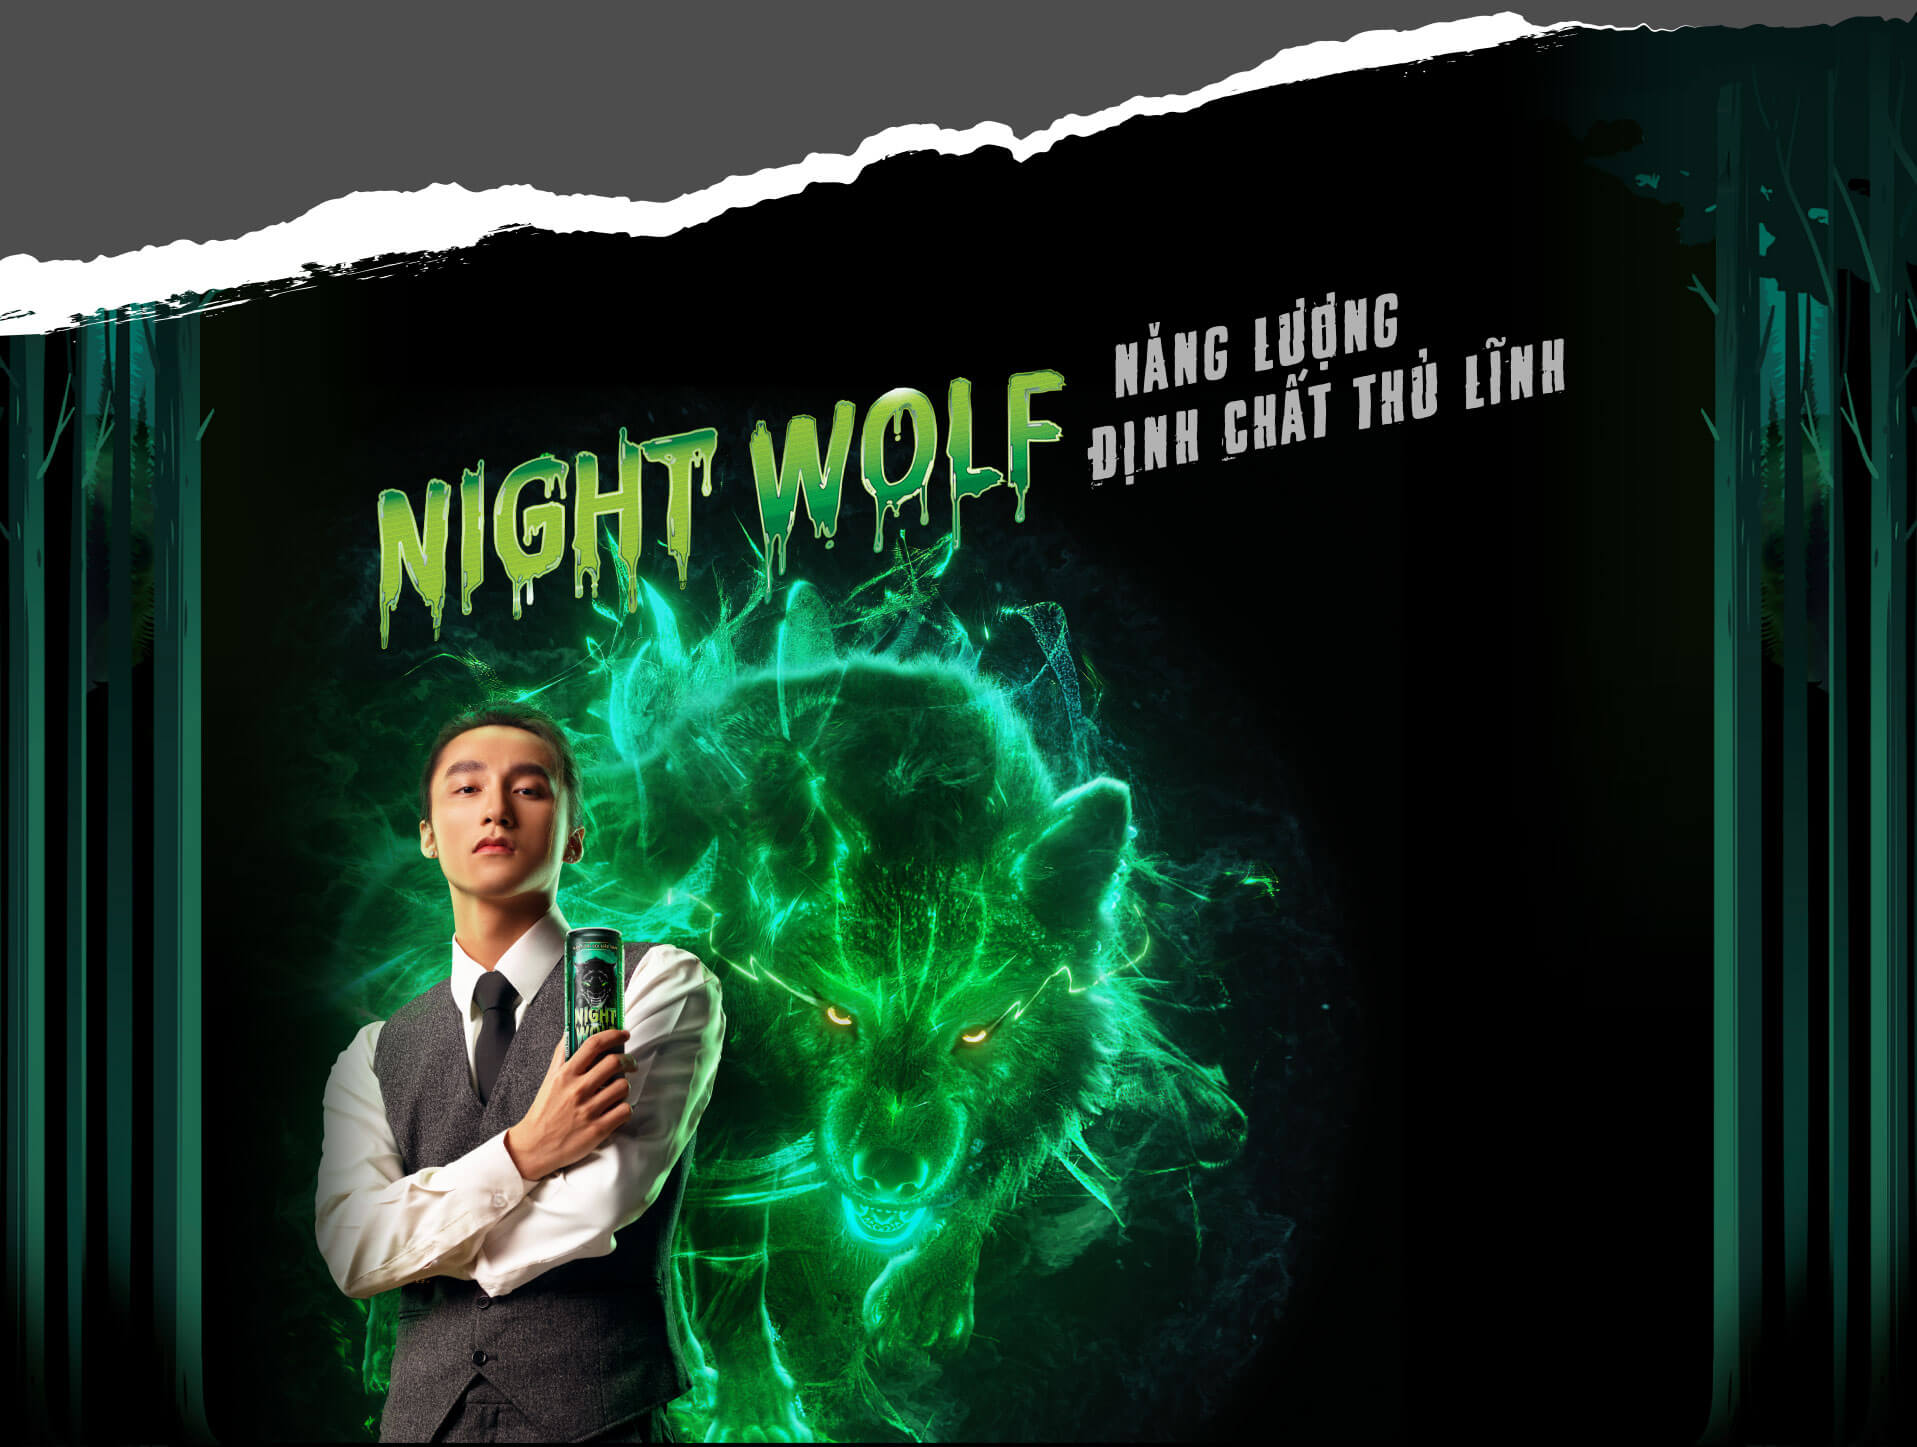
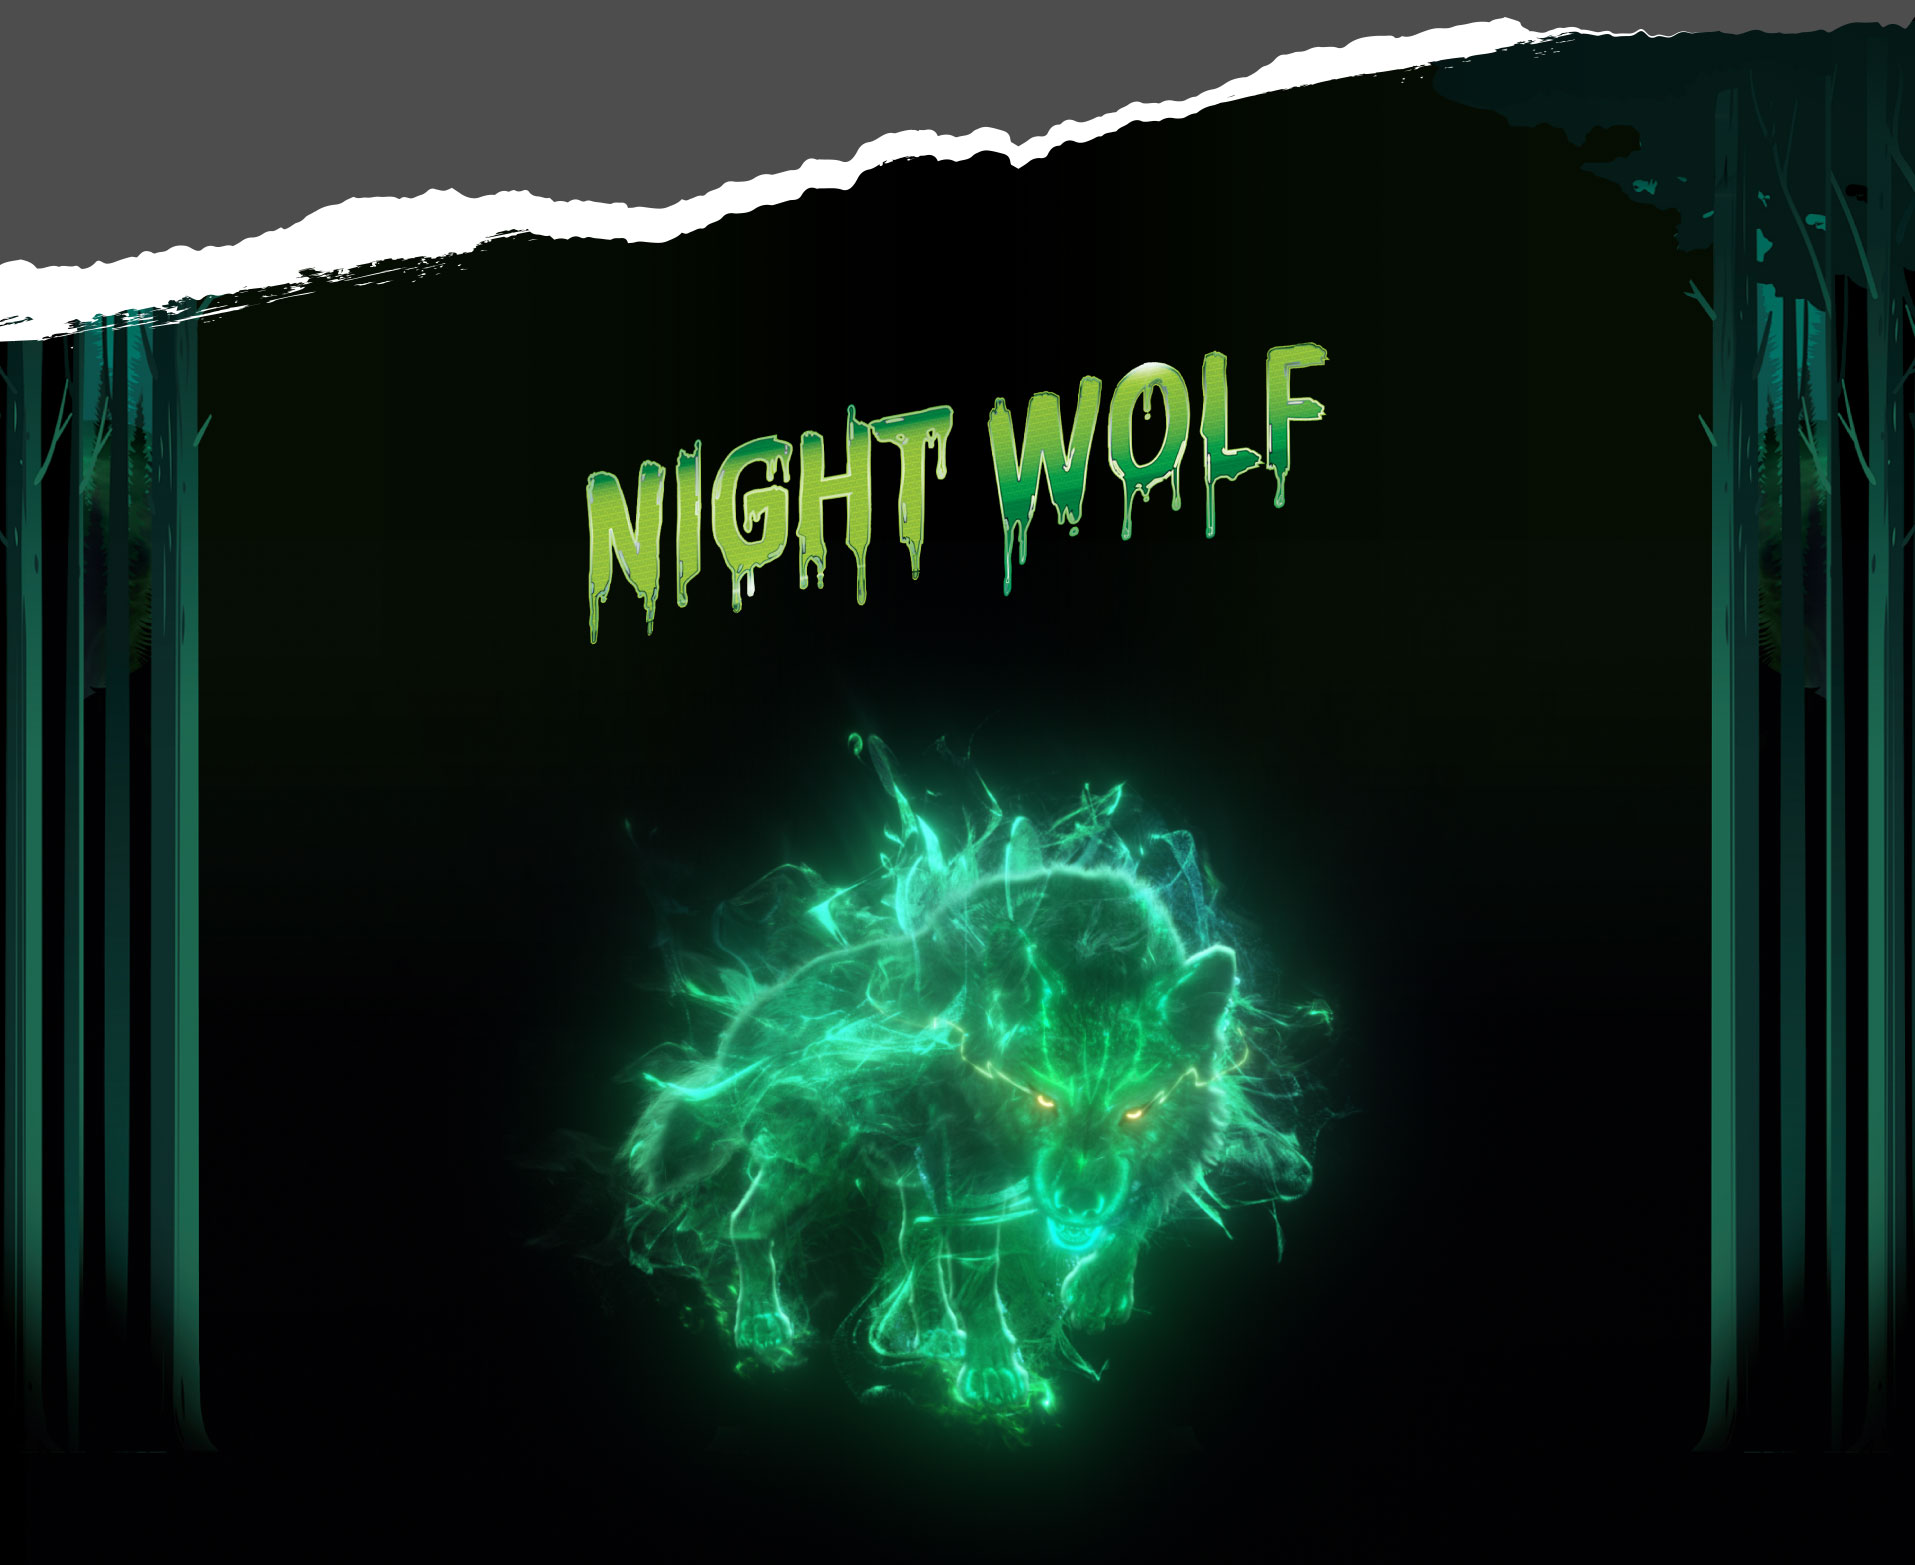
update img poster

diff --git a/index.html b/index.html
@@ -182,13 +182,13 @@
            <img src="./images/bg-poster.jpg" alt="" class="bg-poster md-desktop">
            <img src="./images/bg-poster-mb.jpg" alt="" class="bg-poster md-mobile">
            <img src="./images/text-1.png" alt="" class="poster-text-1 md-desktop wow fadeInRight">
-           <img src="./images/text-2.png" alt="" class="poster-text-2 md-desktop wow fadeInRight">
+           <img src="./images/text-2.png" alt="" class="poster-text-2 md-desktop wow fadeInLeft">
            <img src="./images/text-1-mb.png" alt="" class="poster-text-1 md-mobile wow fadeInRight">
            <img src="./images/text-2-mb.png" alt="" class="poster-text-2 md-mobile wow fadeInRight">
-           <img src="./images/poster-text-3.png" alt="" class="poster-text-3 md-mobile">
+           <img src="./images/poster-text-3.png" alt="" class="poster-text-3">
            <img src="./images/bg-line.png" alt="" class="bg-line">
-           <img src="./images/bg-line.png" alt="" class="bg-line-4">
-           <img src="./images/son-tung.png" alt="" class="img-sontung">
+          <!--  <img src="./images/bg-line.png" alt="" class="bg-line-4">
+           <img src="./images/son-tung.png" alt="" class="img-sontung"> -->
        </div>
        <div class="md-video">
            <div class="container">

diff --git a/css/style.css b/css/style.css
@@ -525,23 +525,23 @@ input[type=submit] {
   width: 100%;
 }
 .page-main .md-poster .poster-text-1{
-  position: absolute;
-  right: 12%;
-    top: 62%;
-    width: 23%;
+      position: absolute;
+    right: 11%;
+    top: 45%;
+    width: 22%;
     z-index: 6;
 }
 .page-main .md-poster .poster-text-2{
   position: absolute;
-  right: 12%;
-  top: 32%;
-  width: 23%;
+    left: 11%;
+    top: 48%;
+    width: 22%;
 }
 .page-main .md-poster .poster-text-3{
-  position: absolute;
-      right: 24%;
-    top: 16%;
-    width: 45%;
+      position: absolute;
+        right: 37%;
+    top: 35%;
+    width: 25%;
 }
 .page-main .md-poster{
     position: relative;
@@ -553,6 +553,12 @@ input[type=submit] {
   width: 100%;
 }
 @media screen and (max-width: 767px){
+  .page-main .md-poster .poster-text-3{
+  position: absolute;
+      right: 24%;
+    top: 16%;
+    width: 45%;
+}
   .page-main .how-to-use .bg-how-to-use{
     top: -5%;
   }
@@ -571,11 +577,13 @@ input[type=submit] {
     right: 24%;
     top: 44%;
     width: 45%;
+    
   }
   .page-main .md-poster .poster-text-2{
         right: 25%;
     top: 71%;
     width: 45%;
+    left: auto;
   }
 }
 @media screen and (max-width: 350px){
